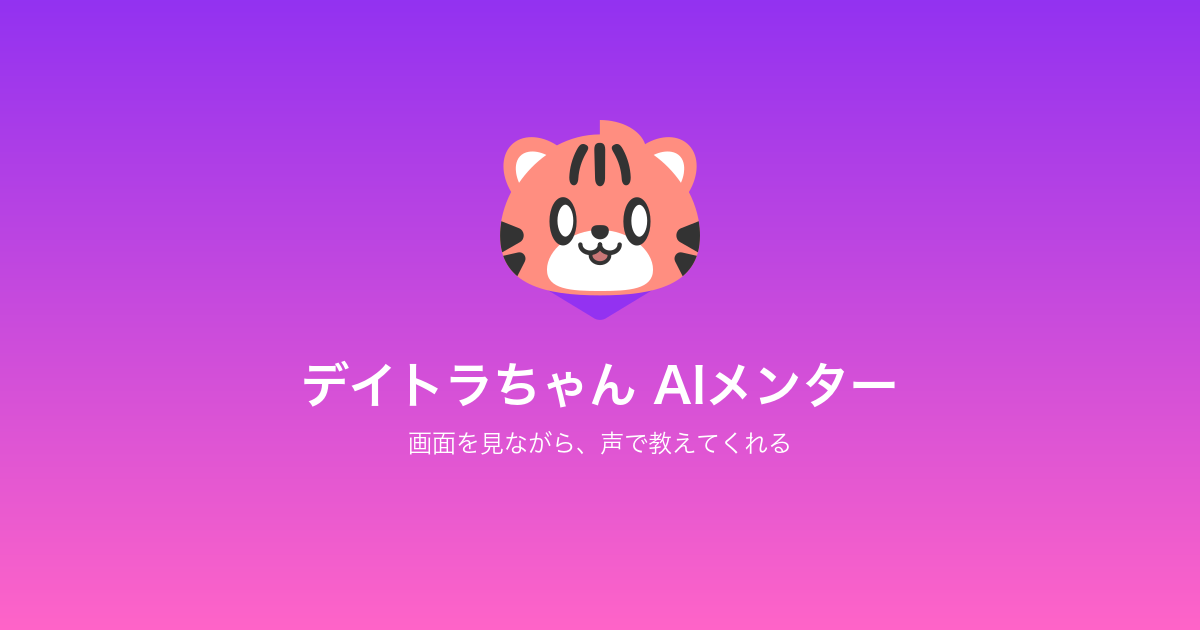
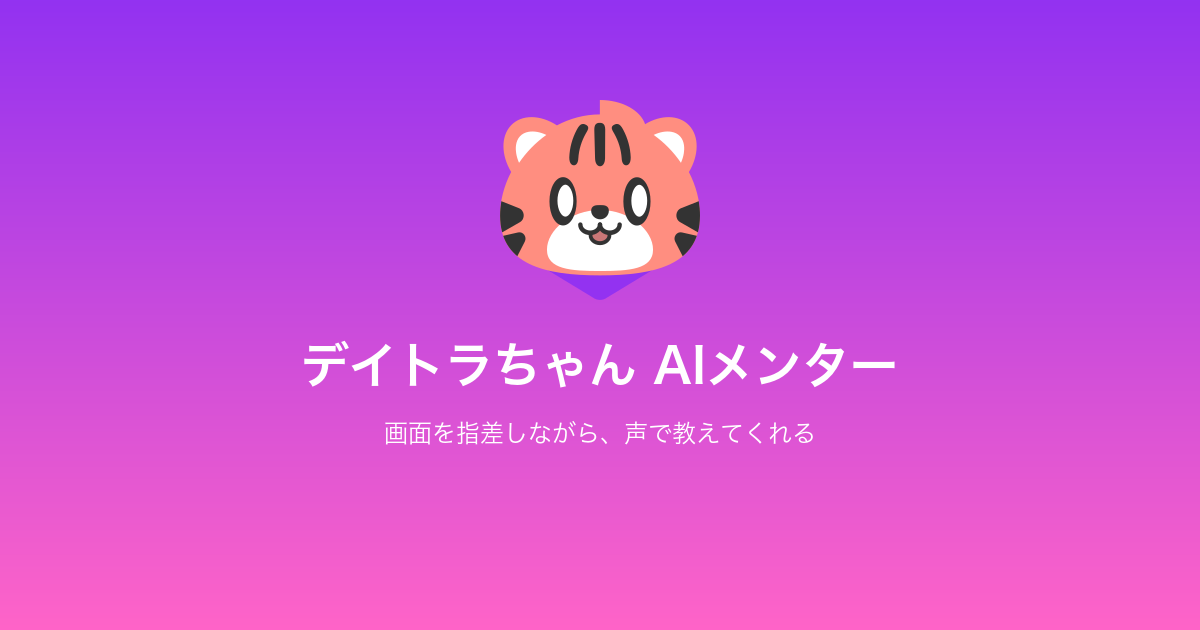
最大の特徴「指差し＋声」を訴求に反映（README・サイト・OGP）

Changed region(s): [[0.2467, 0.5429, 0.74, 0.7238], [0.4008, 0.1508, 0.5858, 0.5127]]

diff --git a/docs/index.html b/docs/index.html
@@ -374,8 +374,8 @@
     <div id="buddy-bubble"></div>
     <div class="container">
       <img src="assets/daytora-chan.svg" alt="デイトラちゃん" class="hero-icon">
-      <h1>画面を見ながら、<br>声で教えてくれるAIメンター</h1>
-      <p class="hero-sub">プログラミング、デザイン、ライティング、語学——ジャンルを問わず、画面の内容を理解してキャラクターボイスで答えてくれます。</p>
+      <h1>画面を指差しながら、<br>声で教えてくれるAIメンター</h1>
+      <p class="hero-sub">「ここをクリックして」と画面上の要素を直接指し示しながら、キャラクターボイスで解説。プログラミング、デザイン、ライティング、語学——ジャンルを問わず対応します。</p>
       <a href="https://github.com/showheyohtaki/daily-trial-ai-mentor/releases/download/v1.0/DaytoraAIMentor.dmg" class="hero-cta">
         <svg viewBox="0 0 24 24" fill="none" stroke="currentColor" stroke-width="2" stroke-linecap="round" stroke-linejoin="round"><path d="M21 15v4a2 2 0 01-2 2H5a2 2 0 01-2-2v-4"/><polyline points="7 10 12 15 17 10"/><line x1="12" y1="15" x2="12" y2="3"/></svg>
         無料でダウンロード

diff --git a/README.md b/README.md
@@ -1,8 +1,8 @@
 # デイトラちゃん — AIメンター for macOS
 
-画面を見ながら、キャラクターボイスで教えてくれるAIメンター。
+画面を指差しながら、キャラクターボイスで教えてくれるAIメンター。
 
-macOSメニューバーに常駐して、Control+Optionキーを長押しするだけで質問できます。プログラミング、デザイン、ライティング、語学——ジャンルを問わず、今見ている画面の内容を理解して答えてくれます。
+macOSメニューバーに常駐して、Control+Optionキーを長押しするだけで質問できます。「ここをクリックして」と画面上の要素を直接指し示しながら声で解説。プログラミング、デザイン、ライティング、語学——ジャンルを問わず対応します。
 
 https://github.com/user-attachments/assets/d7eb402c-6ab6-4504-8838-91dd29df1048
 
